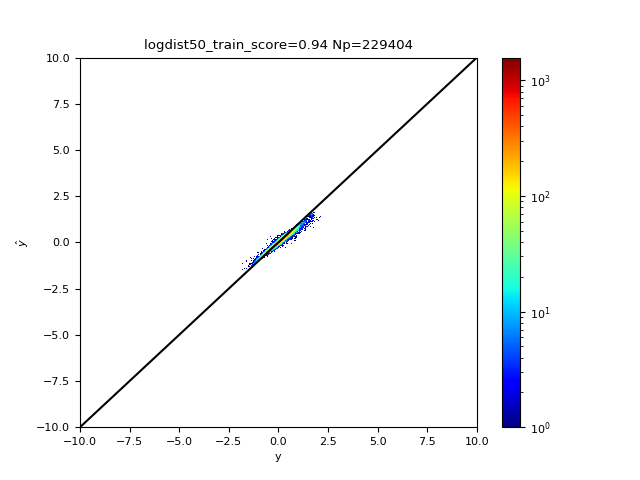
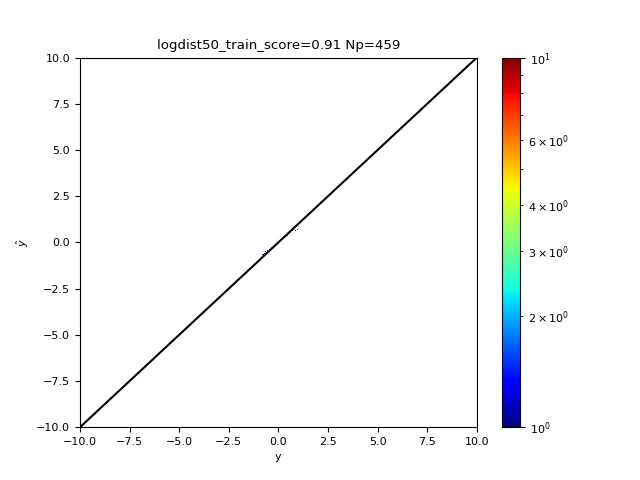
adding sample data with 1, 5 and 10 %

diff --git a/src/mlflowxgb.py b/src/mlflowxgb.py
@@ -36,6 +36,7 @@ import matplotlib as mpl
 import mlflow 
 import pandas as pd
 import numpy as np
+import dask.dataframe as dd
 
 import argparse
 
@@ -95,8 +96,12 @@ def eval_metrics(actual, pred):
 # TODO optimize for DASK
 def fetch_data(fpath="data/combined_trainingset2_with_xp_norm.ONE.parq", frac=0.01):
     #df=pd.read_csv(fpath).set_index("source_id")
-    df=pd.read_parquet(fpath).sample(frac=frac, random_state=42)
+    if not (0 < frac <= 1):
+        raise ValueError(f"frac must be in (0, 1], got {frac}")
+    df = pd.read_parquet(fpath).sample(frac=frac, random_state=42)
     print(f"we read the data:done: got Nstars={len(df)}")
+    #df.to_parquet(f"data/sample_{int(frac*100)}.parq", index=False)
+    #exit(0)
     return df
 
 def okay_condition(trainingset, label="met50"):
@@ -179,7 +184,7 @@ parser = argparse.ArgumentParser(description='Process SH values.')
 parser.add_argument('integer', metavar='n', type=float, nargs='+',
         help="""
         first value: an integer defining what to calculate (0:logdist50, 1:av50, etc.)
-        second value (optional): percentage of data to sample (default: 1 for 1%)
+    second value (optional): percentage of data to sample (default: 1 for 1%%)
 """)
 
 args = parser.parse_args()
@@ -192,7 +197,9 @@ frac = percent / 100.0
 print(f"Running label index: {ii}, with fraction: {frac}")
 
 label = pred_vec[ii]
-rawdata = fetch_data(frac=frac)
+#rawdata = fetch_data(frac=frac)
+rawdata = fetch_data(fpath=f"data/sample_5.parq",frac=frac)
+
 #rawdata=clean_data_by_nan(rawdata)
 data=prepare_data(rawdata,label,random_state=42,frac=1.0)
 print(len(data))

diff --git a/README.md b/README.md
@@ -93,7 +93,7 @@ You can use the provided `Makefile` to quickly execute commands:
 - `make install` - Install python dependencies
 - `make start` or `make start-mlflow` - Start MLflow server
 - `make image` - Build the Docker image
-- `make data` - Download the combined training set data file if it doesn't exist (requires ~4GB disk space)
+- `make data` - Download the combined training set data file and sample files (`sample_1.parq`, `sample_5.parq`, `sample_10.parq`) if they don't exist (requires ~4GB disk space)
 - `make run-help` - Show run options for mlflowxgb.py
 - `make run-<n> [percent]` - Run mlflowxgb.py with argument `<n>` and optionally `<percent>%` data (e.g., `make run-0 10` runs with 10% data, default is 1)
 